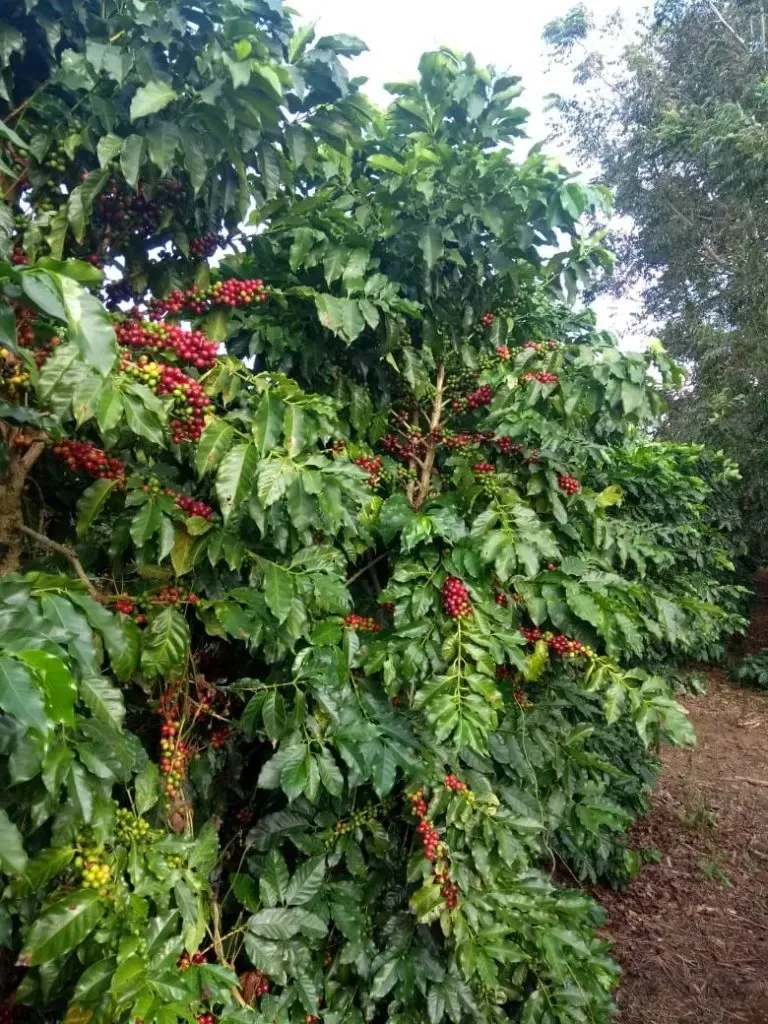
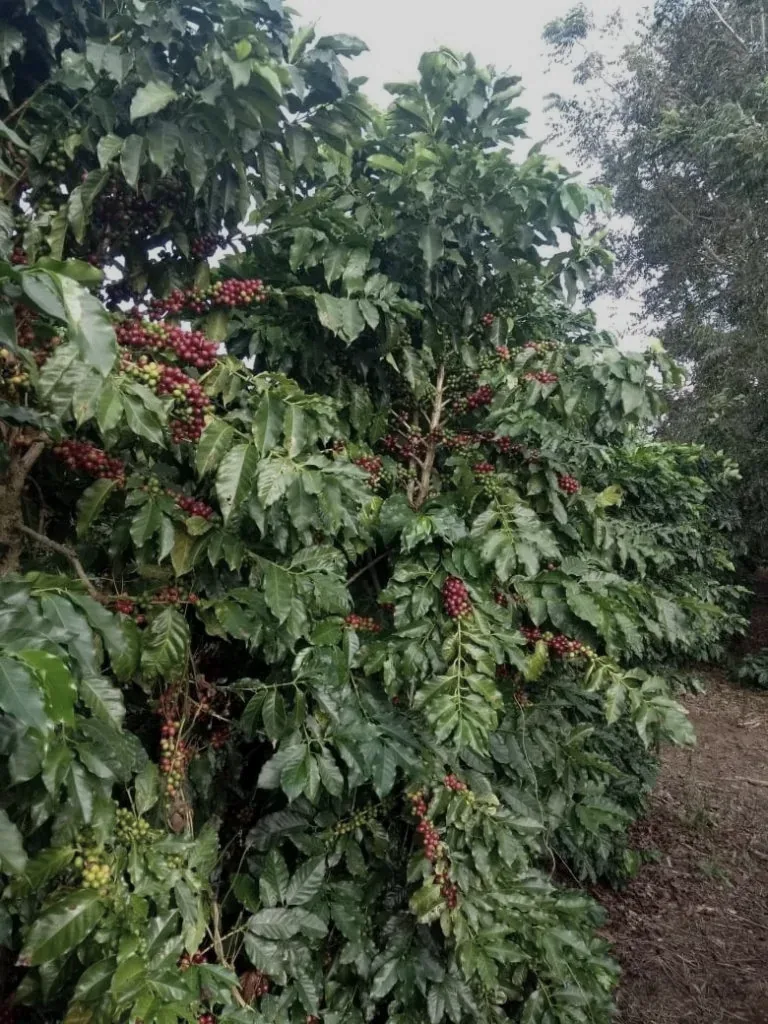
perf: hornea los filtros CSS de las vitrinas dentro de las imágenes
Los fondos de Métodos y Cafés de origen llevaban filter (grayscale/saturate/
brightness) sobre capas a pantalla completa: la GPU del celular re-renderiza
ese filtro en cada frame de scroll, y en iPhone se sentía como scroll pesado.
El mismo ajuste queda aplicado de una vez en image.webp y metodos.jpg (PIL:
saturación y brillo equivalentes) y el CSS ya no filtra nada.

diff --git a/frontend/src/components/menu/VerticalShowcase.tsx b/frontend/src/components/menu/VerticalShowcase.tsx
@@ -231,8 +231,11 @@ export default function VerticalShowcase({ categoria, onSelect }: {
         <div
           style={{
             position: "absolute", inset: 0,
+            // Sin `filter` CSS: el desaturado/oscurecido que llevaba acá está
+            // HORNEADO en image.webp. Un filter sobre una capa a pantalla
+            // completa obliga a la GPU a re-renderizarla en cada frame de
+            // scroll — en iPhone se sentía como scroll pesado/trabado.
             background: `linear-gradient(180deg, rgba(20,18,15,0.82) 0%, rgba(20,18,15,0.88) 40%, ${DARK_BOT} 100%), url(/image.webp) center/cover no-repeat`,
-            filter: "grayscale(0.3) saturate(0.85) brightness(0.85)",
           }}
         />
         <div style={{ position: "absolute", inset: 0, boxShadow: `inset 0 0 120px 30px ${DARK_BOT}` }} />

diff --git a/frontend/src/components/menu/HorizontalShowcase.tsx b/frontend/src/components/menu/HorizontalShowcase.tsx
@@ -225,8 +225,10 @@ export default function HorizontalShowcase({ categoria, onSelect: _onSelect }: {
         <div
           style={{
             position: "absolute", inset: 0,
+            // Sin `filter` CSS: el ajuste está horneado en metodos.jpg — ver
+            // el mismo comentario en VerticalShowcase (costo por frame en la
+            // GPU del celular).
             background: `linear-gradient(180deg, rgba(20,18,15,0.75) 0%, rgba(20,18,15,0.85) 45%, ${DARK_BOT} 100%), url(/metodos.jpg) center 38%/cover no-repeat`,
-            filter: "saturate(0.9) brightness(0.85)",
           }}
         />
         <div style={{ position: "absolute", inset: 0, boxShadow: `inset 0 0 120px 30px ${DARK_BOT}` }} />
